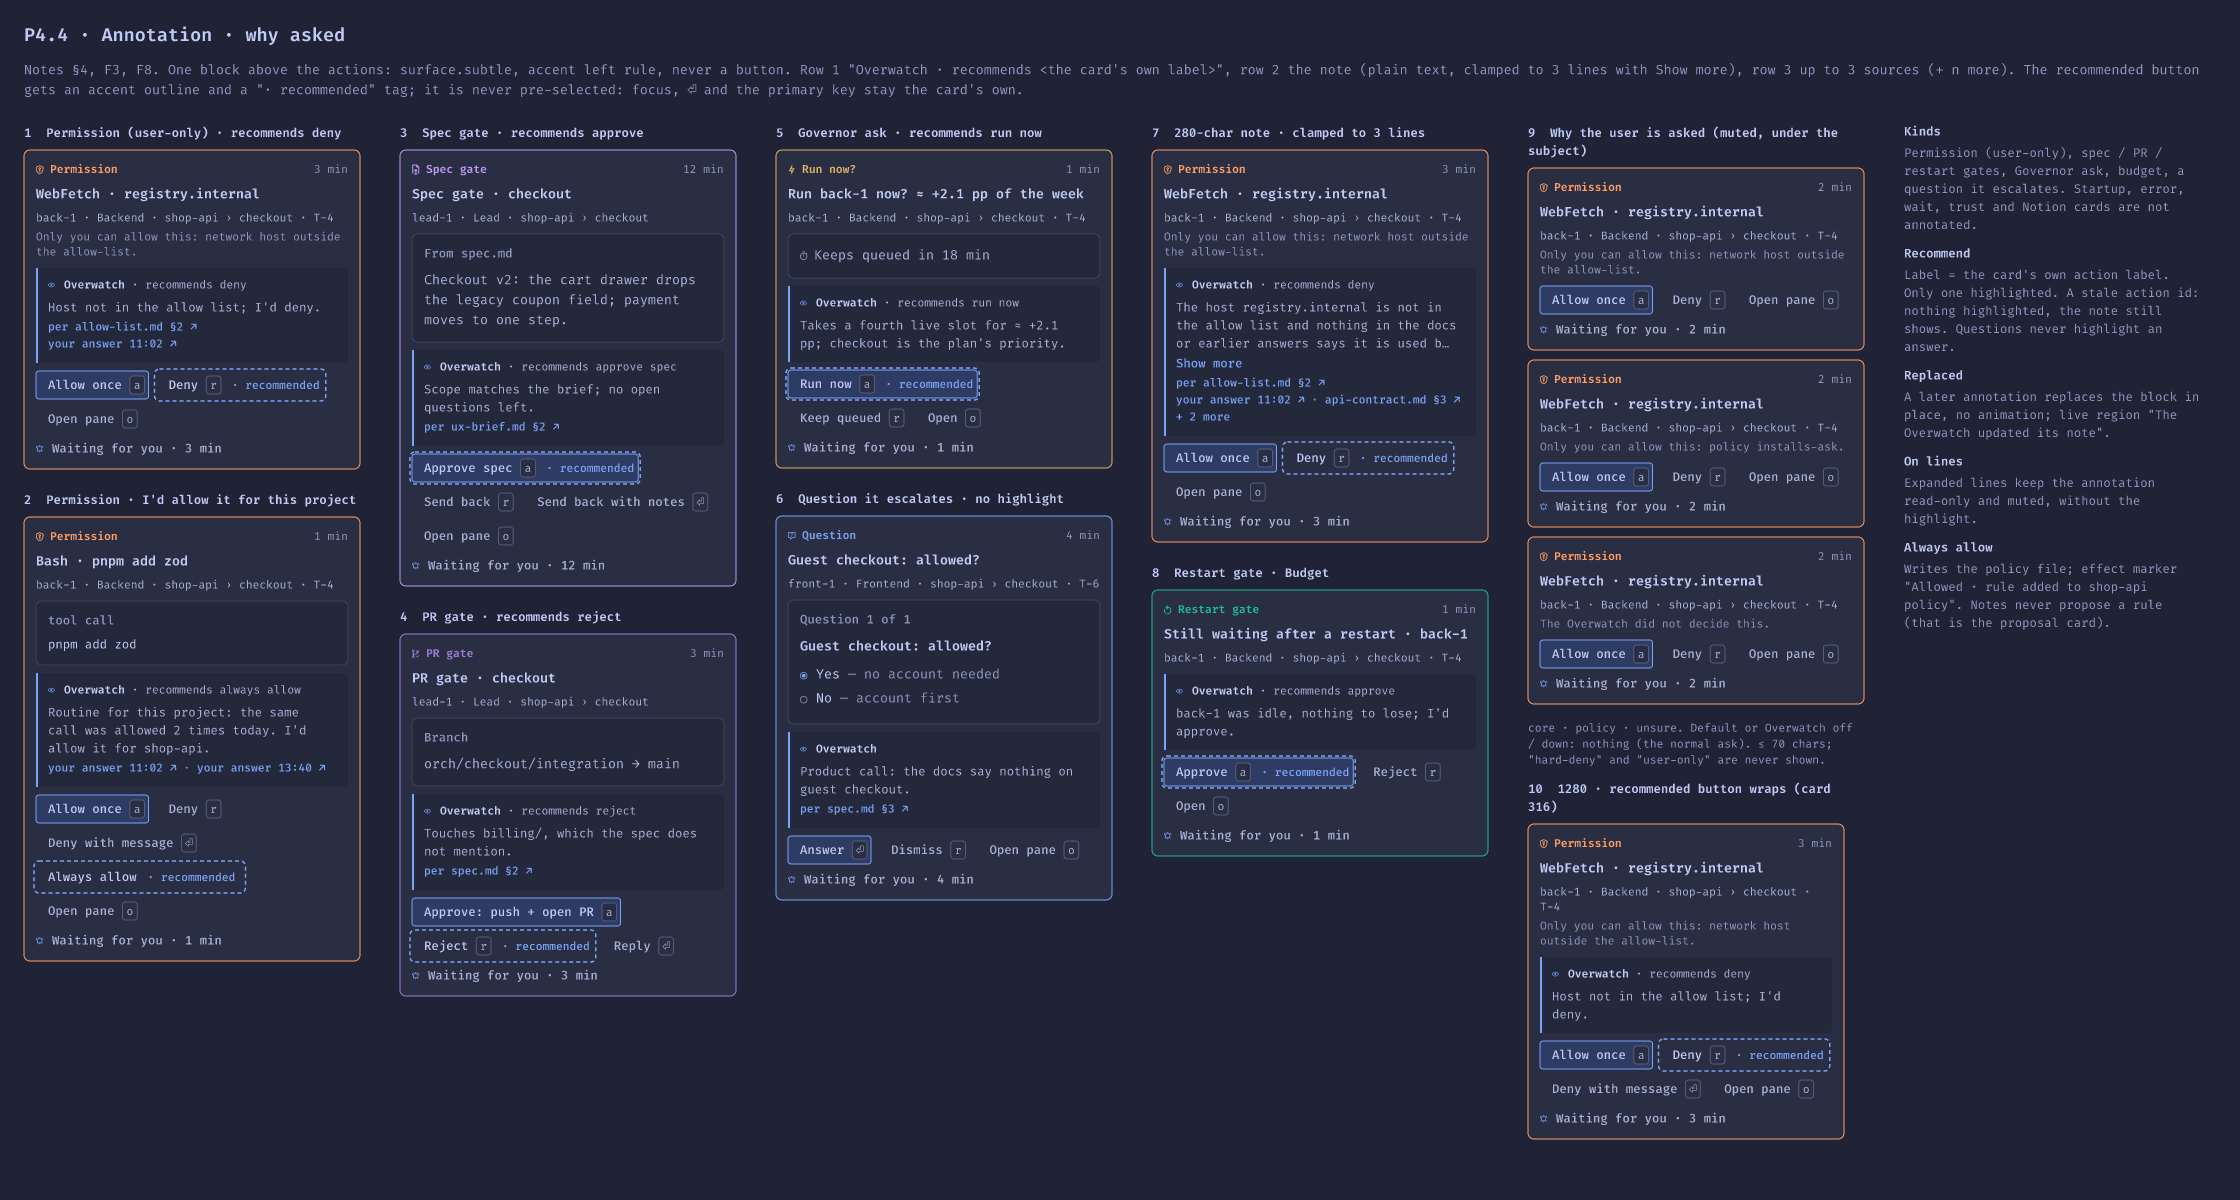
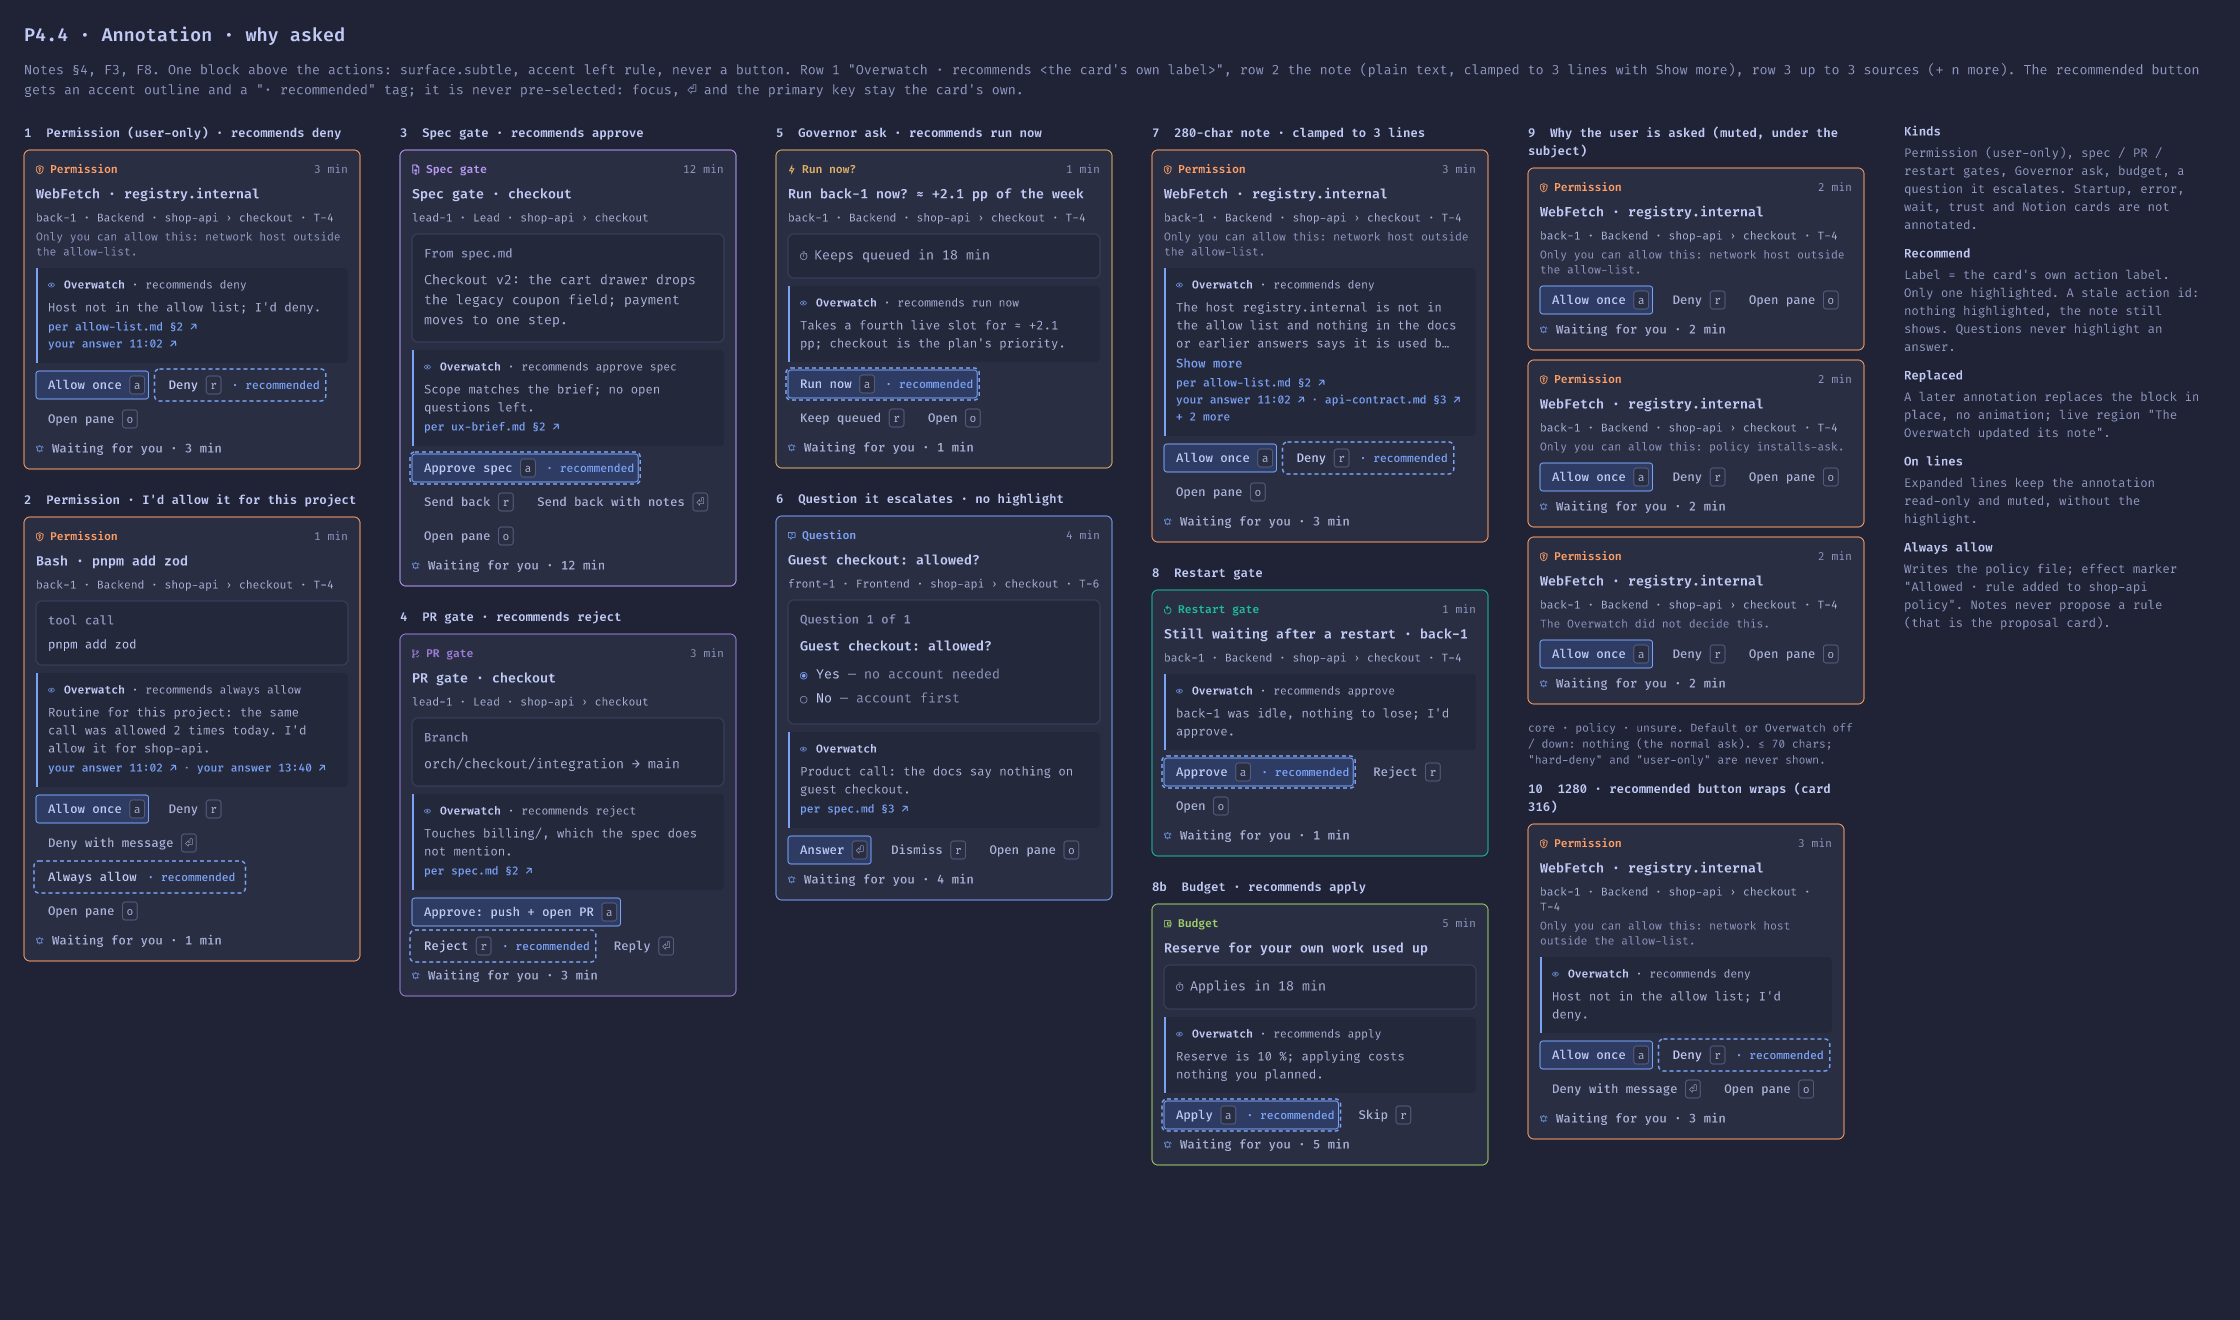
design(p4.4): review fixes to the Overwatch boards (T-222)
- no "working on it" row after the reply, no waking marker while working
  (input board, J12 3)
- undone/corrected lines: "undone 14:03" takes the time slot, never cut
- tails never shown as stubs (need their by-word); undo glyph consistent
  by kind on every board; gone cases have none
- correction field grows to 6 rows; fenced code shows 8 lines
- annotation board gains the Budget card; Settings states gain "switched on"
- full permission card in the down states (cards stay live)
- down strip keeps "Overwatch is down" and puts "Could not restart: <why>"
  in place of the reason; reconnecting strip keeps the P4.3 copy
- planner model window adds up (22.0 pp); J12 5 counts match its rows;
  J12 4 next match is front-1 (rule scoped to front)
- card lifecycle board points to the P4.4 deciding marker; README widths

Changed region(s): [[0.0, 0.0, 0.9688, 0.8942], [0.6562, 0.0925, 0.9688, 0.9558]]

diff --git a/docs/design/README.md b/docs/design/README.md
@@ -35,7 +35,7 @@ The UI source of truth is the FigCraft file [`Orchestrator.figcraft`](Orchestrat
 
 **P4.3 (Chat & cards, 2026-11-02):** design pass **In review** on 03, 04.3, 05, 06 and the Cover (decision D1: the column is drawn without the Overwatch; P4.4-only parts stay on 04.3, titled "(P4.4)"). Copy, states and keys: [p4-3-design-notes.md](p4-3-design-notes.md). No new token: the notification-opened pulse is `color.accent.default` at 12 % opacity. Exports: `.orchestrator/features/p-4-3-chat-and-cards/design/` (`p43-*.png`). The boards are built from SVG generated off the notes (FigCraft `file.import`), so their layers are plain shapes and text, not component instances; the card anatomy and blocks stay the P4.1 / P4.2 components.
 
-**P4.4 (The Overwatch, 2026-11-03):** design pass **In review** on 04.3, 04.6, 04.7, 05, 06.1 and the Cover. Copy, states and keys: [p4-4-design-notes.md](p4-4-design-notes.md). Exports: `.orchestrator/features/p-4-4-the-overwatch/design/` (`p44-*.png`). Boards built from SVG generated off the notes, as in P4.3. No new token: the status dots reuse text.muted / text.secondary / accent.default / status warning; the user entry uses the accent wash (accent 12 %). ui choices beyond the notes, for review: the down strip is 44 px on two lines (the 28 px one-liner does not fit 360 with Restart); collapsed lines carry a by-glyph after ▸ (eye = the Overwatch, file = a policy rule, lock = the app) and hide a tail with under 9 characters of room instead of showing a stub; at rest an undoable line shows an undo glyph before the time, "Undo u" / "Correct u" on hover and focus (at 336 the label would leave no room for the tail); the recommended action has a dashed accent outline and a "· recommended" tag (the primary keeps its solid fill).
+**P4.4 (The Overwatch, 2026-11-03):** design pass **In review** on 04.3, 04.6, 04.7, 05, 06.1 and the Cover. Copy, states and keys: [p4-4-design-notes.md](p4-4-design-notes.md). Exports: `.orchestrator/features/p-4-4-the-overwatch/design/` (`p44-*.png`). Boards built from SVG generated off the notes, as in P4.3. No new token: the status dots reuse text.muted / text.secondary / accent.default / status warning; the user entry uses the accent wash (accent 12 %). ui choices beyond the notes, for review: the down strip is 44 px on two lines (the 28 px one-liner does not fit the 360 px column, 340 at a 1280 shell, with Restart; P4.3 §9 widths); collapsed lines carry a by-glyph after ▸ (eye = the Overwatch, file = a policy rule, lock = the app) and hide a tail with under 9 characters of room instead of showing a stub; an undone line shows "undone 14:03" in the time slot so it is never cut; at rest an undoable line shows an undo glyph before the time, "Undo u" / "Correct u" on hover and focus (at 336 the label would leave no room for the tail); the recommended action has a dashed accent outline and a "· recommended" tag (the primary keeps its solid fill).
 
 ## Screenshots
 
